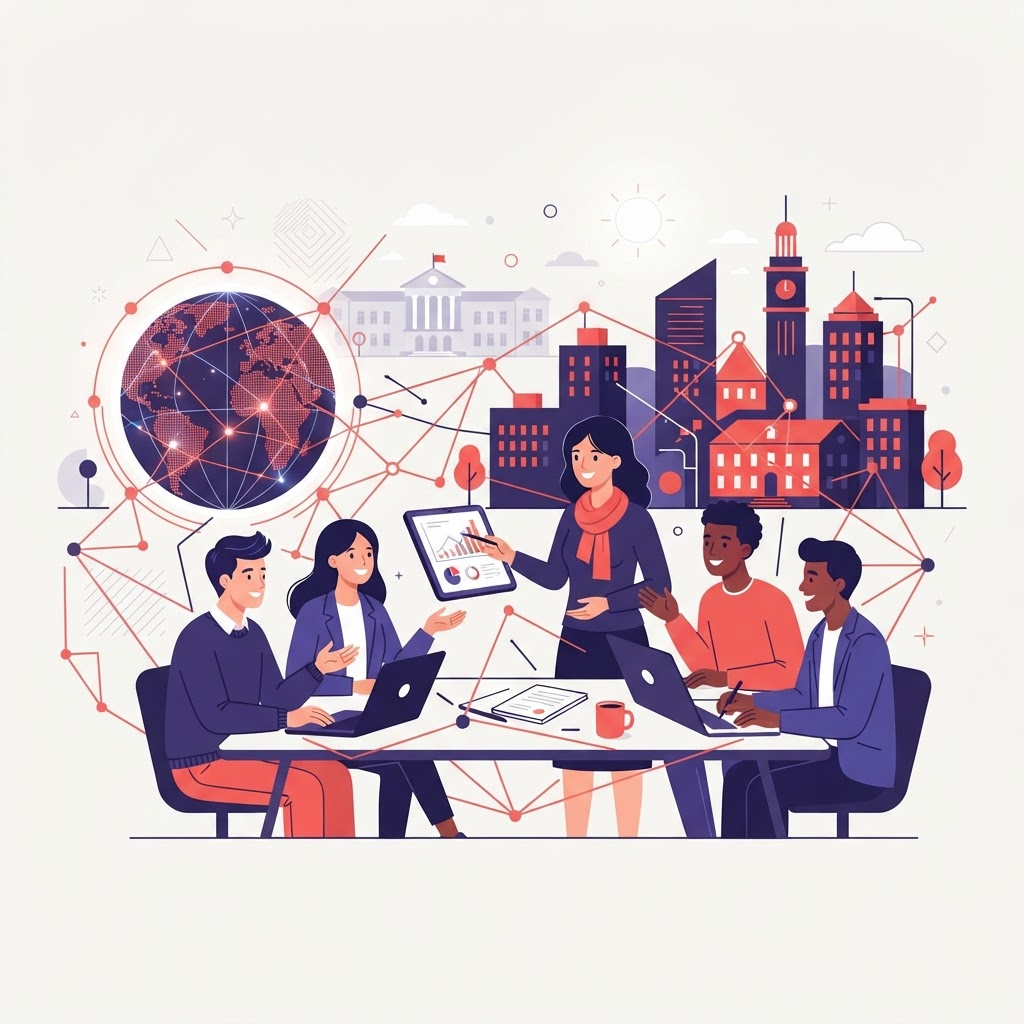
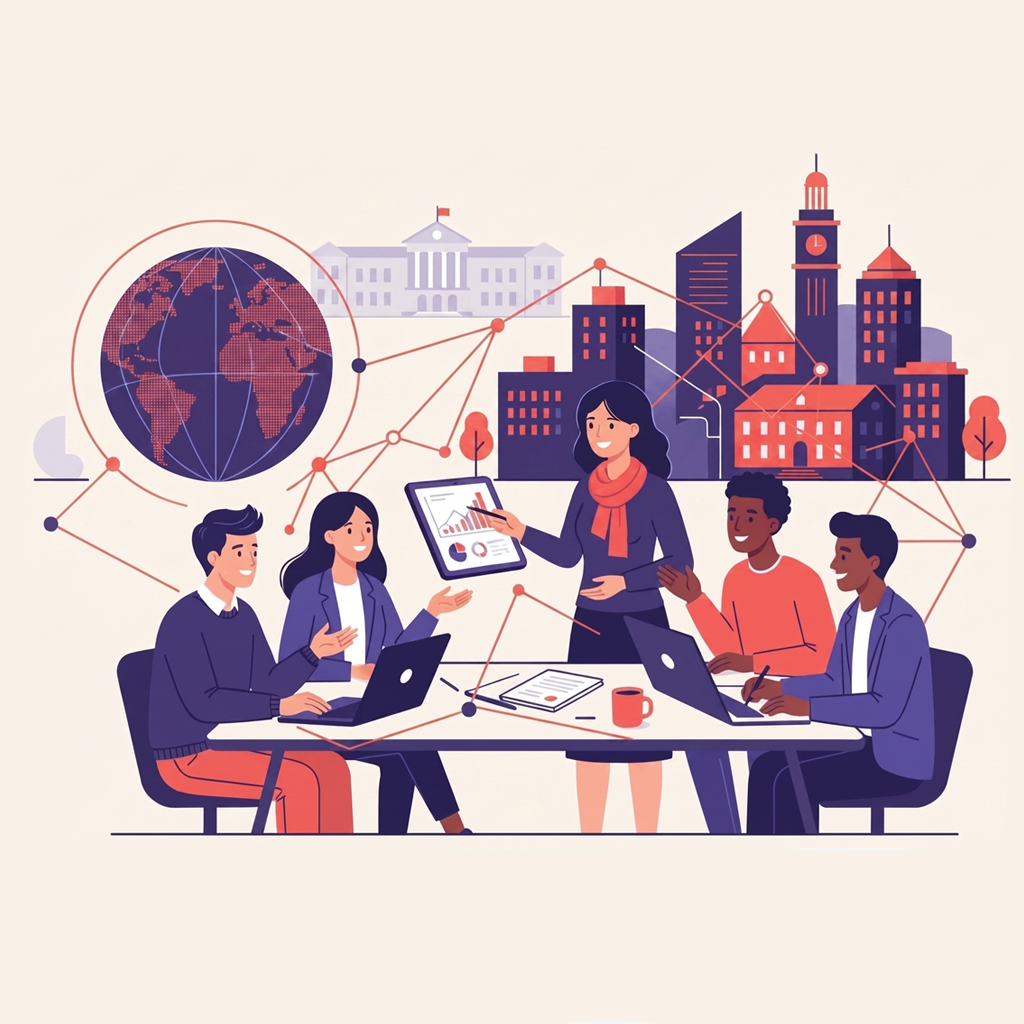
terminar de arreglar la sección Visión

diff --git a/styles.css b/styles.css
@@ -756,7 +756,6 @@ ol {
 
 /* --- 12. Sección Para Quién Es (Who) --- */
 .who-section {
-  border-block: 1px solid var(--border);
   background-color: rgba(244, 242, 248, 0.6);
 }
 
@@ -1099,8 +1098,28 @@ ol {
 }
 
 /* --- 16. Sección Visión --- */
+
+section.section-py.vision-section {
+  padding-block: 1rem;
+  position: relative;
+  margin: 6rem auto;
+}
+
+section.section-py.vision-section>div.rough-band-top {
+  background: url(images/bkgGrayTop02.gif) center bottom no-repeat;
+  background-size: cover;
+  height: 115px;
+  width: 100%;
+}
+
+section.section-py.vision-section>div.rough-band-bottom {
+  background: url(images/bkgGrayBot02.gif) center top no-repeat;
+  background-size: cover;
+  height: 115px;
+  width: 100%;
+}
+
 .vision-section {
-  border-block: 1px solid var(--border);
   background-color: rgba(244, 242, 248, 0.6);
 }
 
@@ -1137,7 +1156,6 @@ ol {
 .events-section {
   position: relative;
   overflow: hidden;
-  border-top: 1px solid var(--border);
   background: linear-gradient(to bottom, rgba(244, 242, 248, 0.4), var(--background) 40%, var(--background));
 }
 
@@ -2203,22 +2221,69 @@ body.no-scroll {
 }
 
 /* Retardos de revelado (antes transitionDelay inline desde data-delay) */
-.reveal-delay-70 { transition-delay: 70ms; }
-.reveal-delay-80 { transition-delay: 80ms; }
-.reveal-delay-90 { transition-delay: 90ms; }
-.reveal-delay-100 { transition-delay: 100ms; }
-.reveal-delay-120 { transition-delay: 120ms; }
-.reveal-delay-140 { transition-delay: 140ms; }
-.reveal-delay-160 { transition-delay: 160ms; }
-.reveal-delay-180 { transition-delay: 180ms; }
-.reveal-delay-200 { transition-delay: 200ms; }
-.reveal-delay-210 { transition-delay: 210ms; }
-.reveal-delay-220 { transition-delay: 220ms; }
-.reveal-delay-250 { transition-delay: 250ms; }
-.reveal-delay-270 { transition-delay: 270ms; }
-.reveal-delay-280 { transition-delay: 280ms; }
-.reveal-delay-300 { transition-delay: 300ms; }
-.reveal-delay-350 { transition-delay: 350ms; }
+.reveal-delay-70 {
+  transition-delay: 70ms;
+}
+
+.reveal-delay-80 {
+  transition-delay: 80ms;
+}
+
+.reveal-delay-90 {
+  transition-delay: 90ms;
+}
+
+.reveal-delay-100 {
+  transition-delay: 100ms;
+}
+
+.reveal-delay-120 {
+  transition-delay: 120ms;
+}
+
+.reveal-delay-140 {
+  transition-delay: 140ms;
+}
+
+.reveal-delay-160 {
+  transition-delay: 160ms;
+}
+
+.reveal-delay-180 {
+  transition-delay: 180ms;
+}
+
+.reveal-delay-200 {
+  transition-delay: 200ms;
+}
+
+.reveal-delay-210 {
+  transition-delay: 210ms;
+}
+
+.reveal-delay-220 {
+  transition-delay: 220ms;
+}
+
+.reveal-delay-250 {
+  transition-delay: 250ms;
+}
+
+.reveal-delay-270 {
+  transition-delay: 270ms;
+}
+
+.reveal-delay-280 {
+  transition-delay: 280ms;
+}
+
+.reveal-delay-300 {
+  transition-delay: 300ms;
+}
+
+.reveal-delay-350 {
+  transition-delay: 350ms;
+}
 
 /* Secciones de banda rasgada */
 .band-section {

diff --git a/index.html b/index.html
@@ -594,6 +594,7 @@
 
     <!-- ==================== SECCIÓN VISIÓN ==================== -->
     <section class="section-py vision-section">
+      <div class="rough-band-top"></div>
       <div class="container vision-grid">
         <div class="reveal">
           <div class="vision-media-box">
@@ -613,6 +614,7 @@
           </p>
         </div>
       </div>
+      <div class="rough-band-bottom"></div>
     </section>
 
     <!-- ==================== SECCIÓN EVENTOS Y TALLERES ==================== -->
